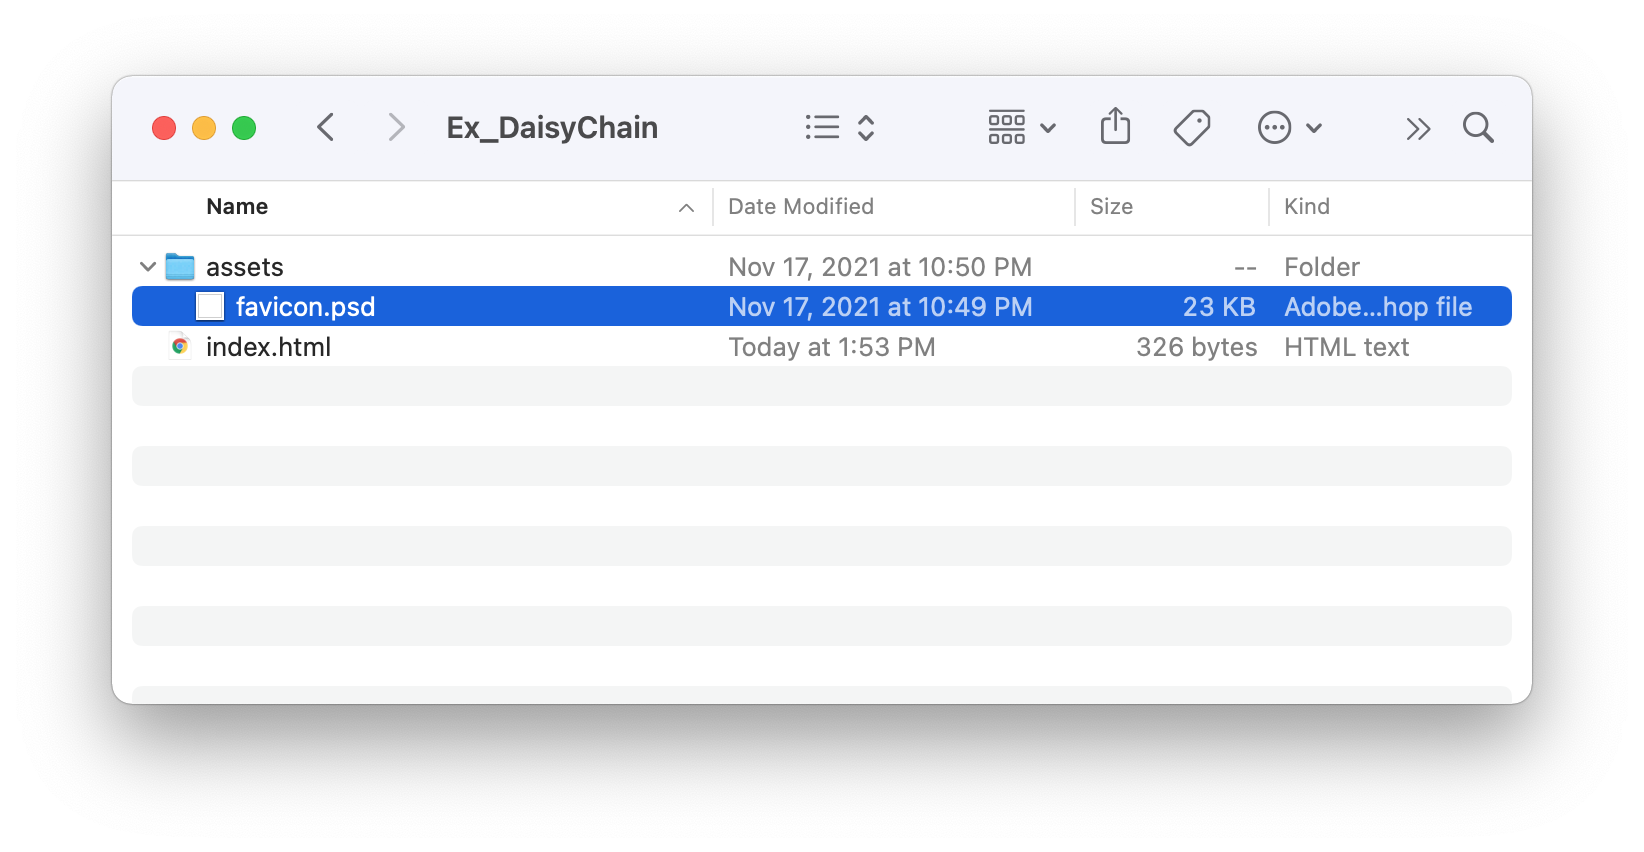
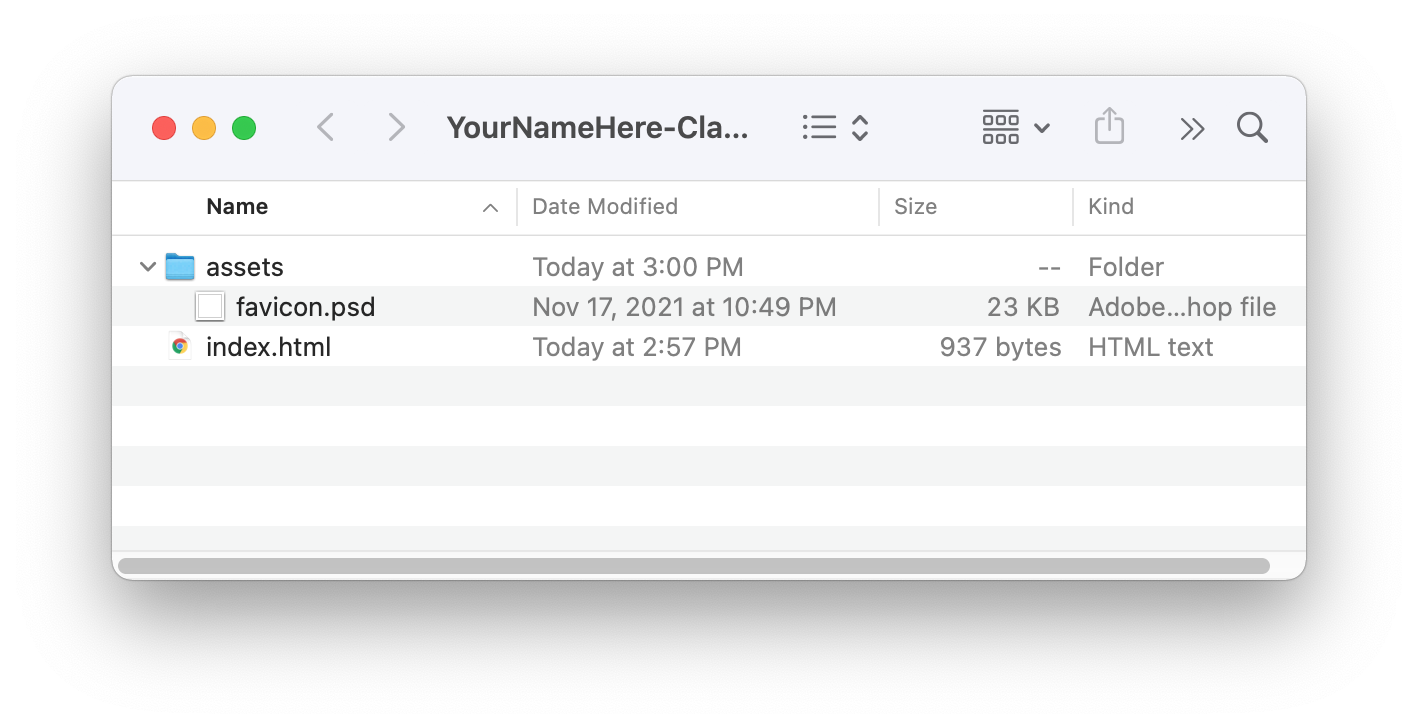
Update

diff --git a/index.html b/index.html
@@ -457,12 +457,6 @@
           <p>
             Using the page from the Daisy Chain exercise, you will create a personal site to house links to your projects, exercises, and homework for later reference and grading.
             <br><br>
-            1. Download and unzip the <a href="assets/downloads/Ex_DaisyChain.zip" download>Page Template</a>.<br>
-            2. Replace the current index.html file in your Daisy Chain exercise with this new one.<br>
-            <img src="assets/images/Tutorial_Page1.png"><br>
-            3. Open the new index.html file and replace all instances of MY NAME HERE with your name.
-            <img src="assets/images/Tutorial_Page2.png">
-            <br><br>
             Remember to keep it updated as you work.
           </p>
         </div>
@@ -476,6 +470,20 @@
       <button class="accordion"><li>Exercises</li></button>
       <div class="panel">
         <ol>
+
+          <button class="accordion"><li>Git Set Up</li></button>
+          <div class="panel">
+            <p>
+              DOWNLOADS:<br>
+              1. Create a  <a href="https://github.com/" target="blank">Github account</a>. Make sure you verify your e-mail.<br>
+              2. Download the <a href="https://atom.io/" target="blank">Atom Text Editor</a>.<br>
+              4. Download the <a href="assets/downloads/YourNameHere-ClassSite.zip" download>Page Template</a>.<br>
+              3. Download the <a href="https://desktop.github.com/" target="blank">Github Desktop app</a>.
+              <br><br>
+              SET UP:<br>
+              X. Add the URL of your page to this <a href="" target="blank">list</a>.
+            </p>
+          </div>
 
         <button class="accordion"><li>Daisy Chain</li></button>
         <div class="panel">
@@ -708,11 +716,13 @@
       <button class="accordion"><li>Materials & Supplies</li></button>
       <div class="panel">
         <p>
-          The following tools will be used in this course:
+          The following tools and software will be used in this course:
           <br><br>
-          ① <a href="" target="blank">Atom Text Editor</a><br>
-          ② <a href="" target="blank">Github Desktop</a><br>
-          ② <a href="" target="blank">Are.na</a>
+          ① Laptop / Computer<br>
+          ② <a href="https://atom.io/" target="blank">Atom Text Editor</a><br>
+          ③ <a href="https://github.com/" target="blank">Github</a><br>
+          ④ <a href="https://desktop.github.com/" target="blank">Github Desktop</a><br>
+          ⑤ <a href="https://www.are.na/" target="blank">Are.na</a>
         </p>
       </div>
 
